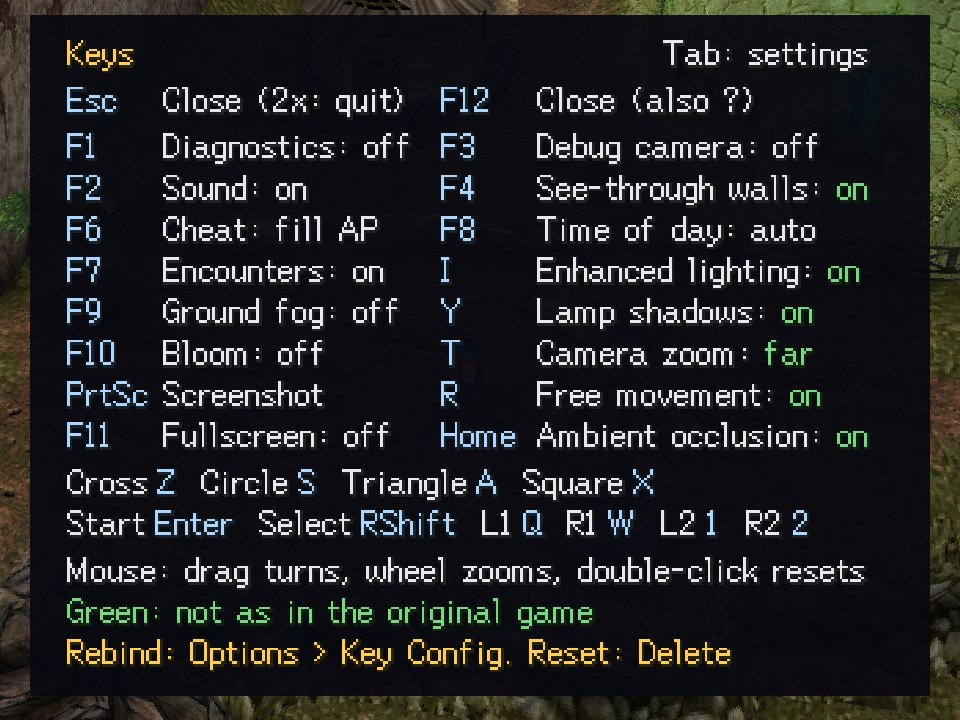
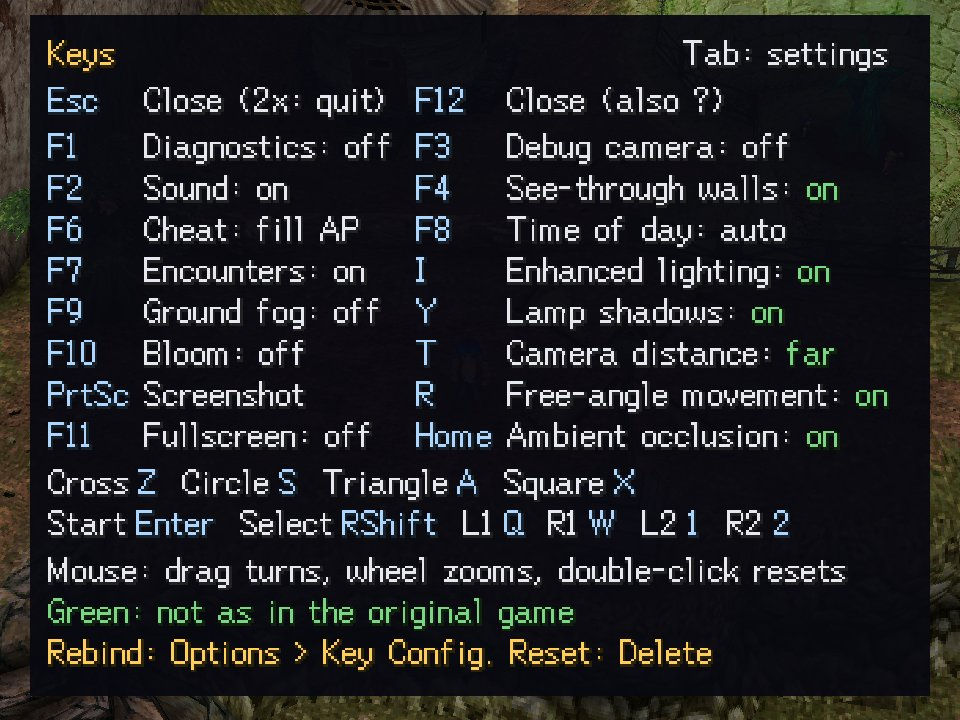
F12 Keys page: full option labels, per-column key cells, legible at 1x
The Keys page said "Free movement" and "Camera zoom" where the Settings
page and the launcher say "Free-angle movement" and "Camera distance":
the full labels did not fit two columns. Each column's key cell is now as
wide as its own widest key (PrtSc no longer widens the column Home heads)
and the column gap is 8, so the shared hotkey labels (and the window's
toggle notices) carry the full names and the help-panel fit tests hold at
both metrics and in the disc font.

On a 1x stage (the smallest window) the page's fit into the list plate
shrank glyphs below a window pixel and dropped their strokes; there it now
keeps its own 1:1 layout, which fits the stage, and the plate grows round
it. Guide image re-shot.

Changed region(s): [[0.0312, 0.0611, 0.9375, 0.9472], [0.6875, 0.0306, 0.9375, 0.1222]]

diff --git a/crates/engine-shell/src/window/hud/text_list.rs b/crates/engine-shell/src/window/hud/text_list.rs
@@ -141,14 +141,27 @@ impl PlayWindowApp {
                 PanelPage::Scenes => stage.extend(self.scenes_stage_draws()),
                 PanelPage::Tools => stage.extend(self.tools_stage_draws()),
                 PanelPage::Keys => {
-                    let (x, y, pw, ph) = crate::window::settings_panel::LIST_PLATE;
+                    keys_page = self.hotkey_help_stage_draws();
+                    let mut plate = crate::window::settings_panel::LIST_PLATE;
+                    // On a 1x stage (the smallest window) a fit into the
+                    // plate would shrink the glyphs below a window pixel
+                    // and drop their strokes. The page keeps its own 1:1
+                    // layout there, which fits the stage, and the plate
+                    // grows round it.
+                    let one_x = self.save_select_stage(w, h).1 <= 1;
+                    if one_x {
+                        plate = keys_plate_round(plate, &keys_page);
+                    }
+                    let (x, y, pw, ph) = plate;
                     self.push_scrim(
                         &mut stage,
                         (x, y),
                         (pw as u32, ph as u32),
                         crate::window::settings_panel::PANEL_SCRIM,
                     );
-                    keys_page = self.hotkey_help_stage_draws();
+                    if one_x {
+                        stage.append(&mut keys_page);
+                    }
                 }
             }
         }
@@ -269,14 +282,14 @@ impl PlayWindowApp {
         }
         let mut y = l.y0 + l.line_h + 2;
         put("Esc", (l.x0, y), ink.key);
-        put(HELP_QUIT, (l.x0 + l.key_w, y), ink.text);
+        put(HELP_QUIT, (l.x0 + l.key_w[0], y), ink.text);
         put("F12", (l.x0 + l.col_w, y), ink.key);
-        put(HELP_SELF, (l.x0 + l.col_w + l.key_w, y), ink.text);
+        put(HELP_SELF, (l.x0 + l.col_w + l.key_w[1], y), ink.text);
         y += l.line_h + 2;
         for (((k, line), &(col, row)), state) in entries.iter().zip(&l.cells).zip(&states) {
             let at = (l.x0 + col * l.col_w, y + row as i32 * l.line_h);
             put(k, at, ink.key);
-            let x = at.0 + l.key_w;
+            let x = at.0 + l.key_w[col as usize];
             match state {
                 Some((head, true)) => {
                     let (h, v) = line.split_at(*head);
@@ -970,6 +983,23 @@ const PLATE_STEP_DEN: i32 = 4;
 const KEYS_INSET_X: i32 = 6;
 const KEYS_INSET_Y: i32 = 2;
 
+/// The list plate `plate` grown to hold `draws` (stage pixels) with the
+/// Keys page's insets round them: the 1x stage's Keys plate.
+pub(in crate::window) fn keys_plate_round(
+    plate: (i32, i32, i32, i32),
+    draws: &[TextDraw],
+) -> (i32, i32, i32, i32) {
+    let (mut x0, mut y0) = (plate.0, plate.1);
+    let (mut x1, mut y1) = (plate.0 + plate.2, plate.1 + plate.3);
+    for d in draws {
+        x0 = x0.min(d.dst.0 - KEYS_INSET_X);
+        y0 = y0.min(d.dst.1 - KEYS_INSET_Y);
+        x1 = x1.max(d.dst.0 + d.dst.2 as i32 + KEYS_INSET_X);
+        y1 = y1.max(d.dst.1 + d.dst.3 as i32 + KEYS_INSET_Y);
+    }
+    (x0, y0, x1 - x0, y1 - y0)
+}
+
 /// Scale stage-pixel `draws` into the window rect `(x, y, w, h)`, centred:
 /// the largest quarter step that fits, never above the stage's whole step
 /// `stage_scale` (half a step at the least).
@@ -1160,8 +1190,8 @@ pub(in crate::window) struct HelpPanelLayout {
     pub width: i32,
     pub height: i32,
     pub line_h: i32,
-    /// Offset of a row's text from its key.
-    pub key_w: i32,
+    /// Offset of a row's text from its key, per column.
+    pub key_w: [i32; 2],
     /// Offset of the right column from the left.
     pub col_w: i32,
     /// Each entry's `(column, row)`, in entry order.
@@ -1175,10 +1205,11 @@ pub(in crate::window) struct HelpPanelLayout {
 /// Two columns, each in table order. The table's own halves come first,
 /// which is what a narrow font gets. When their widest rows land in opposite
 /// columns and the pair is wider than the stage (the disc's dialog font,
-/// with what were "Camera distance: farther" and "Free-angle movement: off" both in
+/// with "Camera distance: farther" and "Free-angle movement: off" both in
 /// the second half, ran the panel off the right edge), the widest entries
-/// share one column instead - the most even such split that fits. A single
-/// column is the last candidate.
+/// share one column instead - the most even such split that fits. Each
+/// column's key cell is only as wide as its own keys. A single column is
+/// the last candidate.
 pub(in crate::window) fn help_panel_layout(
     font: &legaia_font::Font,
     entries: &[(&str, String)],
@@ -1201,6 +1232,12 @@ fn pad_row_width(width: &dyn Fn(&str) -> i32, row: &[(&str, String)]) -> i32 {
     pairs + PAD_PAIR_GAP * (row.len() as i32 - 1).max(0)
 }
 
+/// The space between a key and its row's text.
+const KEY_TEXT_GAP: i32 = 5;
+/// The space between the left column's widest text and the right column's
+/// keys.
+const COLUMN_GAP: i32 = 8;
+
 /// [`help_panel_layout`] over any text metric.
 fn help_panel_layout_with(
     width: &dyn Fn(&str) -> i32,
@@ -1215,29 +1252,36 @@ fn help_panel_layout_with(
         .unwrap_or(0);
     let stage_w = legaia_engine_ui::BOOT_UI_STAGE_W as i32;
     let stage_h = legaia_engine_ui::BOOT_UI_STAGE_H as i32;
-    let key_w = entries
-        .iter()
-        .map(|(k, _)| width(k))
-        .chain([width("Esc"), width("F12")])
-        .max()
-        .unwrap_or(0)
-        + 5;
     let n = entries.len();
-    // A candidate is a right-column flag per entry.
+    // A candidate is a right-column flag per entry. Each column's key cell
+    // is as wide as its own widest key (`PrtSc` need not widen the column
+    // `Home` heads), so the full labels fit two columns.
     let candidate = |right: &[bool]| {
-        let col = |want: bool, extra: &str| {
+        let in_col = |want: bool| {
             entries
                 .iter()
                 .zip(right)
-                .filter(|(_, r)| **r == want)
-                .map(|((_, l), _)| width(l))
+                .filter(move |(_, r)| **r == want)
+                .map(|(e, _)| e)
+        };
+        let key_w = |want: bool, extra: &str| {
+            in_col(want)
+                .map(|(k, _)| width(k))
                 .chain([width(extra)])
                 .max()
                 .unwrap_or(0)
-                + key_w
+                + KEY_TEXT_GAP
         };
-        let left_w = col(false, HELP_QUIT) + 10;
-        let right_w = col(true, HELP_SELF);
+        let text_w = |want: bool, extra: &str| {
+            in_col(want)
+                .map(|(_, l)| width(l))
+                .chain([width(extra)])
+                .max()
+                .unwrap_or(0)
+        };
+        let keys = [key_w(false, "Esc"), key_w(true, "F12")];
+        let left_w = keys[0] + text_w(false, HELP_QUIT) + COLUMN_GAP;
+        let right_w = keys[1] + text_w(true, HELP_SELF);
         let in_right = right.iter().filter(|r| **r).count();
         let rows = in_right.max(n - in_right);
         let body = (left_w + right_w)
@@ -1246,7 +1290,7 @@ fn help_panel_layout_with(
             .max(width(HELP_LEGEND))
             .max(pad_w);
         let height = (rows as i32 + 5 + pad.len() as i32) * line_h + 12;
-        (left_w, body, rows, height)
+        (left_w, body, rows, height, keys)
     };
     let even = n.div_ceil(2);
     let mut candidates: Vec<Vec<bool>> = vec![(0..n).map(|i| i >= even).collect()];
@@ -1269,8 +1313,8 @@ fn help_panel_layout_with(
     // The scrim is drawn from `y0 - 4` and is `height` tall (the height
     // carries the text's gaps and the scrim's top margin), so with `y0` at
     // its 4 px floor a panel fits while `height` does.
-    let fits = |c: &(i32, i32, usize, i32)| c.1 + 8 <= stage_w && c.3 <= stage_h;
-    let (right, (col_w, body, rows, height)) = scored
+    let fits = |c: &(i32, i32, usize, i32, [i32; 2])| c.1 + 8 <= stage_w && c.3 <= stage_h;
+    let (right, (col_w, body, rows, height, key_w)) = scored
         .iter()
         .find(|(_, c)| fits(c))
         .or_else(|| scored.iter().min_by_key(|(_, c)| c.1))
@@ -1432,7 +1476,7 @@ mod help_panel_tests {
         );
         // Every row's text ends inside the panel.
         for ((_, line), &(col, _)) in entries.iter().zip(&l.cells) {
-            let x = l.x0 + col * l.col_w + l.key_w;
+            let x = l.x0 + col * l.col_w + l.key_w[col as usize];
             assert!(
                 x + width(line) <= l.x0 + l.width,
                 "{what}: {line:?} runs past the panel"

diff --git a/crates/engine-session/src/hotkeys.rs b/crates/engine-session/src/hotkeys.rs
@@ -144,8 +144,8 @@ impl HostHotkey {
             HostHotkey::VolumetricFog => "Ground fog",
             HostHotkey::EnhancedLighting => "Enhanced lighting",
             HostHotkey::LightShadows => "Lamp shadows",
-            HostHotkey::CameraDistance => "Camera zoom",
-            HostHotkey::PreciseMovement => "Free movement",
+            HostHotkey::CameraDistance => "Camera distance",
+            HostHotkey::PreciseMovement => "Free-angle movement",
             HostHotkey::Bloom => "Bloom",
             HostHotkey::AmbientOcclusion => "Ambient occlusion",
             HostHotkey::ReloadPack => "Reload pack",

diff --git a/crates/web-play/src/play_hotkeys.rs b/crates/web-play/src/play_hotkeys.rs
@@ -39,7 +39,7 @@ impl LegaiaRuntime {
     }
 
     /// The notice for a hotkey press [`Self::play_host_hotkey`] refused
-    /// (`"Camera zoom: only while walking around"`), the line the native
+    /// (`"Camera distance: only while walking around"`), the line the native
     /// window shows instead of leaving the press looking dead. `""` when
     /// `code` is no hotkey or is not refused now.
     pub fn play_host_hotkey_refusal(&self, code: &str) -> String {
